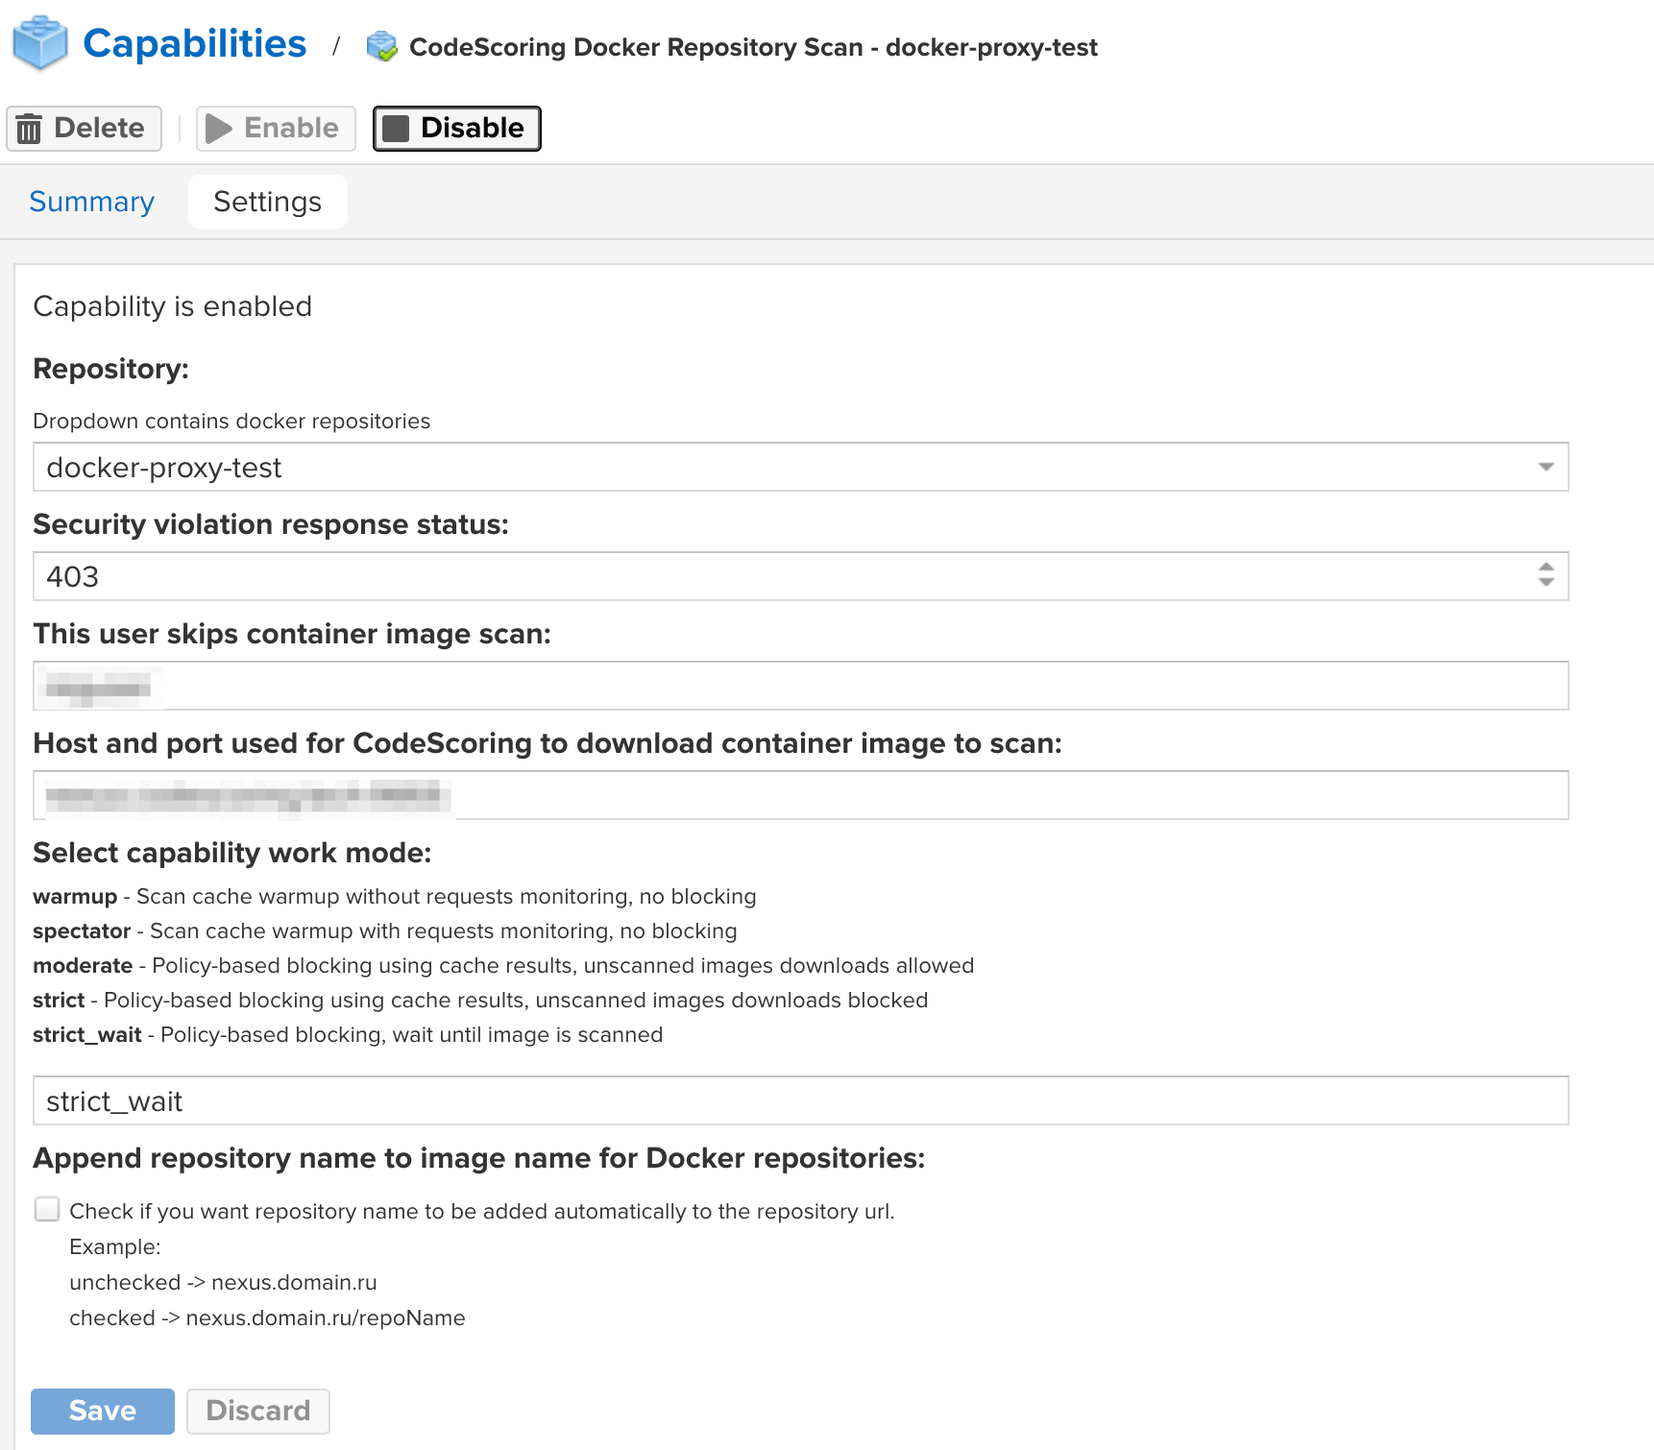
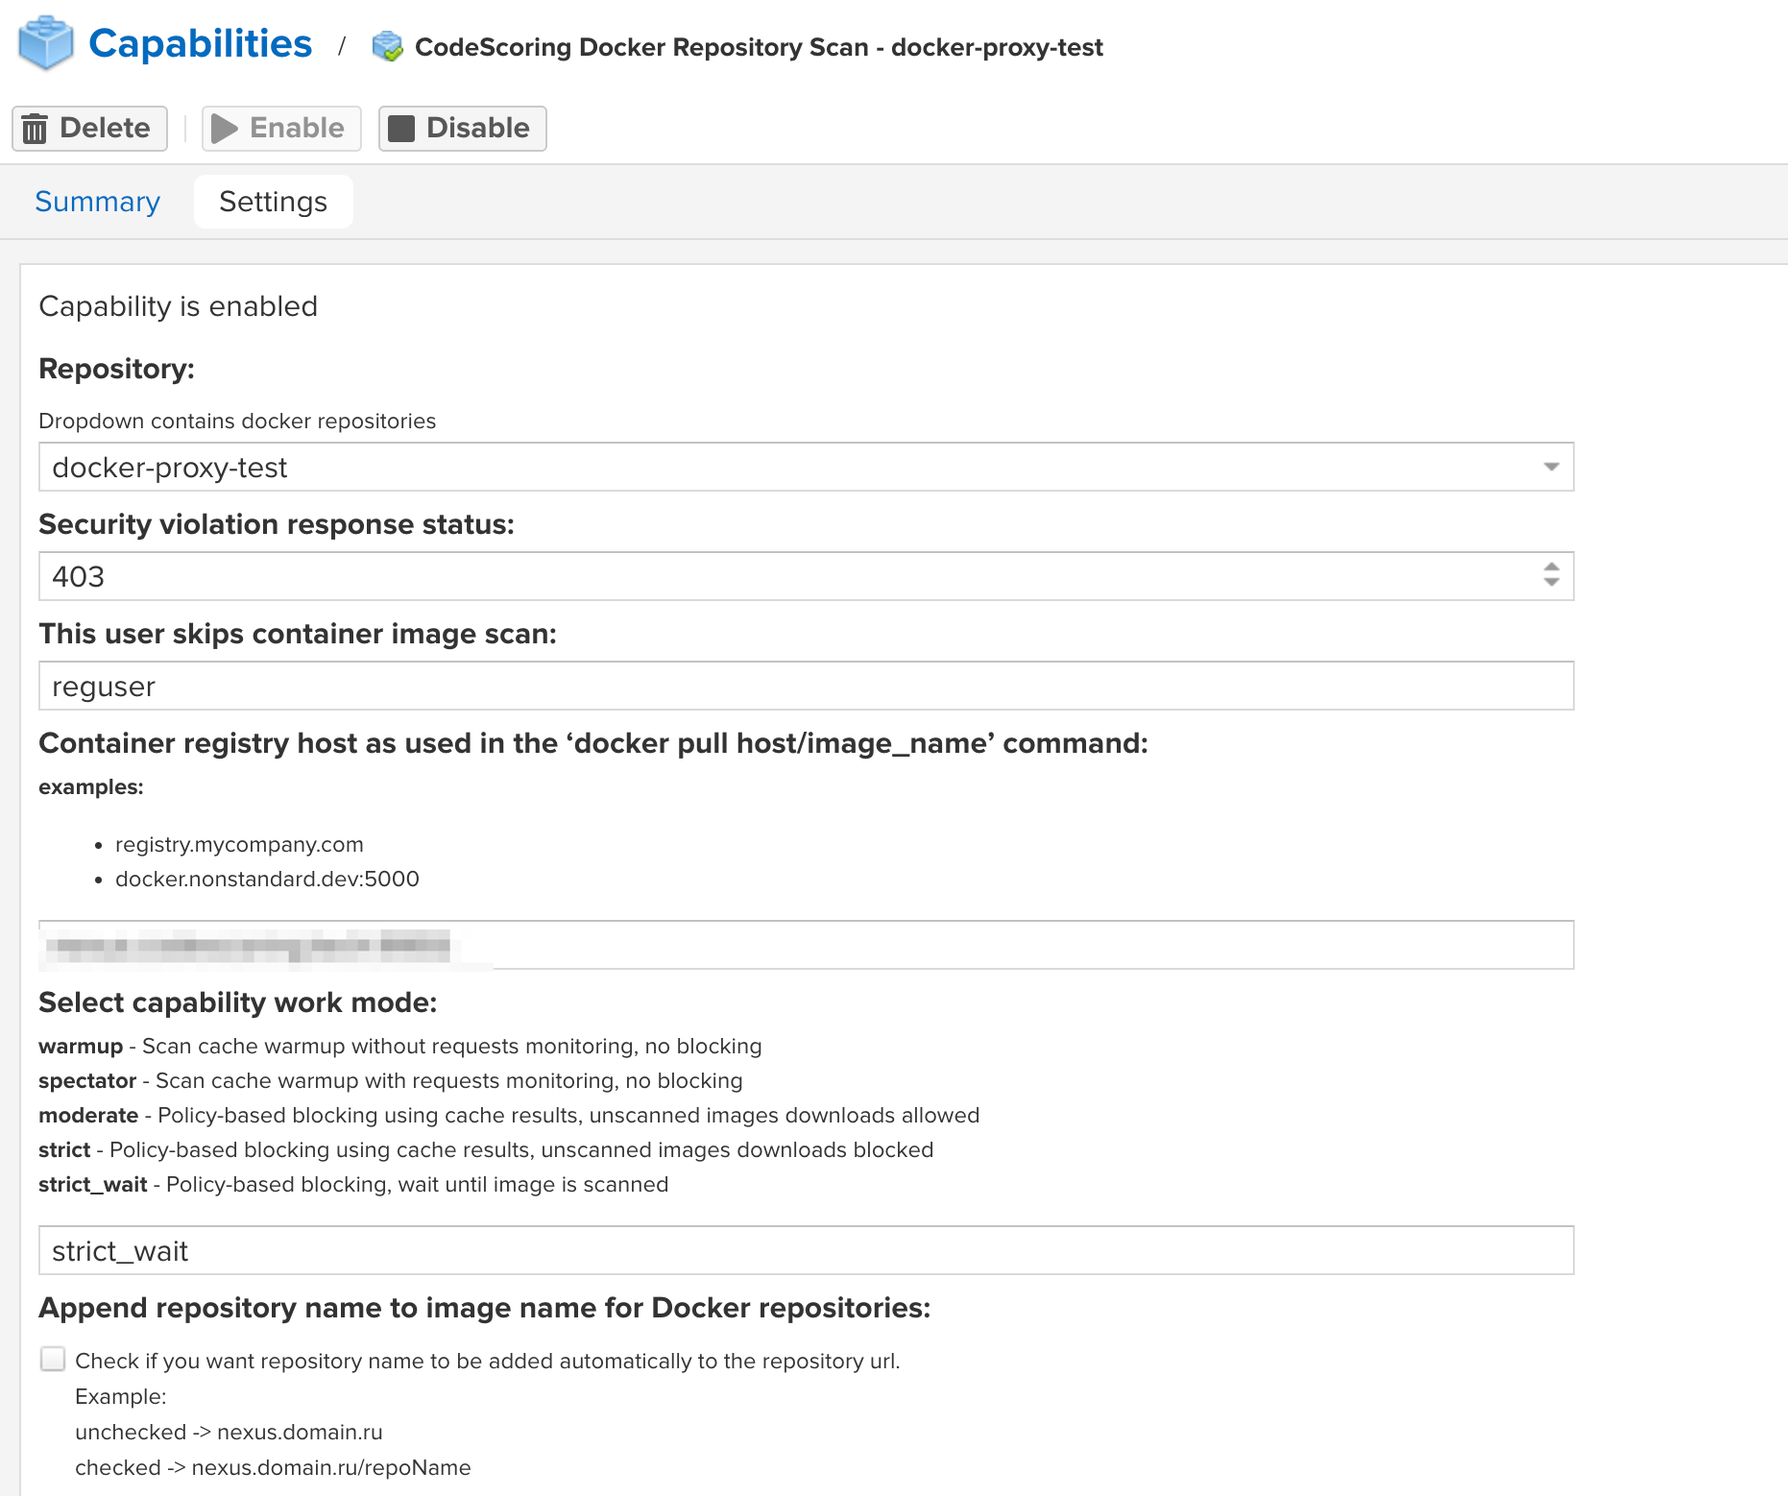
updated screenshots and fields of capabilities in Nexus OSA

diff --git a/docs/osa/nexus_osa.md b/docs/osa/nexus_osa.md
@@ -53,14 +53,13 @@ nx-repository-view-*-*-{read,browse}
 
 ### CodeScoring Configuration
 
-Расширение позволяет задать общие настройки плагина для работы с **on-premise** версией **CodeScoring**:
+Расширение позволяет задать общие настройки плагина для работы с инсталляцией **CodeScoring**:
 
-- **CodeScoring Token** – ключ для авторизации вызовов API (*Создается из CodeScoring раздела `Profile -> Home`*);
 - **CodeScoring URL** – адрес **on-premise** инсталляции **CodeScoring**;
+- **CodeScoring Token** – ключ для авторизации вызовов API (*Создается из CodeScoring раздела `Profile -> Home`*);
 - **HttpClient Connection Pool Size** – количество доступных соединений. Параметр позволяет управлять количеством параллельных запросов, чтобы ускорить сканирование;
 - **HTTP Proxy Host** – адрес прокси-сервера. Используется в случае, если нет возможности наладить прямое соединение между NXRM и CodeScoring;
 - **HTTP Proxy Port** – порт прокси-сервера;
-- **Store artifact analysis in the DB to retrieve them via REST** – сохранение результатов сканирования артефакта в базе NXRM с возможностью извлечения из Nexus API;
 - **Block downloads in case of plugin or CodeScoring errors** – блокировка загрузки компонента при наличии ошибок от плагина или CodeScoring API.
 - **Custom message for blocked packages** – сообщение для пользователя при блокировке компонентов;
 - **Nexus URL for identification in CodeScoring** – адрес Nexus Repository Manager с протоколом для отображения результатов на инсталляции.
@@ -87,8 +86,7 @@ nx-repository-view-*-*-{read,browse}
 - **Repository** – выбор репозитория, для которого будет применена функция экранирования;
 - **Security violation response status** – код ошибки, возвращаемый при срабатывании политик безопасности;
 - **This user skips container image scan** – имя пользователя, для которого не применяется сканирование образов. Используется при загрузке и проверке компонентов консольным агентом;
-- **Host and port used for CodeScoring to download container image to scan** – адрес (без указания протокола) и порт, через которые будут загружаться образы для сканирования. Используется для связи Nexus с репозиторием через Docker;
-- **Block not scanned images** – блокировка загрузки образов, которые не были просканированы;
+- **Container registry host as used in the `docker pull host/image_name` command** – адрес (без указания протокола) и порт, через которые будут загружаться образы для сканирования. Используется для связи Nexus с репозиторием через Docker;
 - **Select capability work mode** – режим работы плагина. Режимы работы описаны в секции ниже;
 - **Append repository name to image name for Docker repositories** – добавление названия репозитория в PURL для корректной работы в режиме **RepoPath** (в случае обращения за компонентом через команду `docker pull registry/repository/image_name`).
 
@@ -99,9 +97,10 @@ nx-repository-view-*-*-{read,browse}
 Расширение позволяет включить проверку компонентов на все репозитории в рамках Sonatype Nexus Repository Manager со следующими параметрами:
 
 - **List of comma separated repositories to ignore** – список репозиториев, которые не будут сканироваться;
+- **List of comma separated repository formats to scan** – список форматов репозиториев, которые будут сканироваться. Доступные форматы: `maven2`, `npm`, `pypi`, `nuget`, `cocoapods`, `go`, `rubygems`, `conan`, `apt`, `yum`, `apk`, `docker`;
 - **Security violation response status** – код ошибки, возвращаемый при срабатывании политик безопасности;
 - **This user skips container image scan** – имя пользователя, для которого не применяется сканирование образов. Используется при загрузке и проверке компонентов консольным агентом;
-- **Host and port used for CodeScoring to download container image to scan** – адрес (без указания протокола) и порт, через которые будут загружаться образы для сканирования. Используется для связи Nexus с репозиторием через Docker;
+- **Container registry host as used in the `docker pull host/image_name` command** – адрес (без указания протокола) и порт, через которые будут загружаться образы для сканирования. Используется для связи Nexus с репозиторием через Docker;
 - **Select capability work mode** – режим работы плагина. Режимы работы описаны в секции ниже;
 - **Append repository name to image name for Docker repositories** – добавление названия репозитория в PURL для корректной работы в режиме **RepoPath** (в случае обращения за компонентом через команду `docker pull registry/repository/image_name`).
 
@@ -126,46 +125,6 @@ nx-repository-view-*-*-{read,browse}
 ![NXRM logs](/assets/img/osa/nxrm_logs.png)
 
 Результаты логирования событий доступны в разделе `Support -> Logs`.
-
-### Сохранение и извлечение результатов сканирования артефакта
-
-При активации признака **Store artifact analysis in the DB to retrieve them via REST** в конфигурации плагина результаты сканирования артефактов будут сохраняться в базу данных Nexus. Это позволяет получить информацию о том, какие компоненты запрашивались пользователями и какой был статус загрузки данных компонентов.
-
-Извлечь результаты сканирования через Nexus REST API можно с помощью эндпоинта `v1/analysis` с тремя опциональными параметрами:
-
-- **userName** – имя пользователя в Nexus;
-- **date** – дата сканирования в формате ГГГГ-ММ-ДД;
-- **repositoryName** – название репозитория в Nexus.
-
-Пример запроса с помощью `curl`:
-
-``` bash
-curl -X GET https://test.nexus.com/service/rest/v1/analysis?userName=example_user&date=2023-10-19&repositoryName=example_repository
-```
-
-Пример ответа с результатом сканирования:
-``` bash
-[
- {
-    "userName": "bobbi",
-    "artifactName": "specs",
-    "artifactVersion": "4.8",
-    "repositoryName": "gems",
-    "downloadState": "LOADED",
-    "scanDate": "2023-08-12",
-    "scanTime": "10:17:59"
- },
- {
-    "userName": "bobbi",
-    "artifactName": "kmod",
-    "artifactVersion": "27-1ubuntu2",
-    "repositoryName": "ubuntu",
-    "downloadState": "LOADED",
-    "scanDate": "2023-08-12",
-    "scanTime": "11:52:53"
-  },
-]
-```
 
 ## Блокировка компонента
 

diff --git a/docs/osa/nexus_osa.en.md b/docs/osa/nexus_osa.en.md
@@ -53,14 +53,13 @@ After installing the **CodeScoring OSA** plugin in the `System -> Capabilities` 
 
 ### CodeScoring Configuration
 
-This extension allows you to set general plugin settings for working with the **on-premise** version of **CodeScoring**:
+This extension allows you to set general plugin settings for working with the **CodeScoring** installation:
 
-- **CodeScoring Token** – key for authorizing API calls (*Created from CodeScoring section `Profile -> Home`*);
 - **CodeScoring URL** – address of the on-premise installation of **CodeScoring**;
+- **CodeScoring Token** – key for authorizing API calls (*Created from CodeScoring section `Profile -> Home`*);
 - **HttpClient Connection Pool Size** – number of available connections. This parameter allows you to control the number of parallel requests to speed up scanning;
 - **HTTP Proxy Host** – proxy server address. Used if it is not possible to establish a direct connection between NXRM and CodeScoring;
 - **HTTP Proxy Port** – proxy server port;
-- **Store artifact analysis in the DB to retrieve them via REST** – saving the artifact scan results in the NXRM database with the ability to retrieve them from the Nexus API;
 - **Block downloads in case of plugin or CodeScoring errors** – blocking the download of a component if there are errors from the plugin or CodeScoring API.
 - **Custom message for blocked packages** – message for the user when components are blocked;
 - **Nexus URL for identification in CodeScoring** – address of the Nexus Repository Manager with the protocol for displaying the results on the installation.
@@ -87,8 +86,7 @@ This extension allows you to enable component check for the selected hosted or p
 - **Repository** – select the repository for which the escaping function will be applied;
 - **Security violation response status** – error code returned when security policies are triggered;
 - **This user skips container image scan** – user for which image scanning is not applied. Used when loading and checking components by the console agent;
-- **Host and port used for CodeScoring to download container image to scan** – address (without specifying the protocol) and port through which images for scanning will be downloaded. Used to communicate between Nexus and repository via Docker;
-- **Block not scanned images** – block the downloading of images that have not been scanned;
+- **Container registry host as used in the `docker pull host/image_name` command** – address (without specifying the protocol) and port through which images for scanning will be downloaded. Used to communicate between Nexus and repository via Docker;
 - **Select capability work mode** – plugin operating mode. The operating modes are described in the section below;
 - **Append repository name to image name for Docker repositories** – adding the repository name to PURL for correct operation in **RepoPath** mode (in case of accessing the component via the `docker pull registry/repository/image_name` command).
 
@@ -99,9 +97,10 @@ This extension allows you to enable component check for the selected hosted or p
 The extension allows you to enable component checking for all repositories within the Sonatype Nexus Repository Manager with the following parameters:
 
 - **List of comma separated repositories to ignore** – list of repositories that will not be scanned;
+- **List of comma separated repository formats to scan** – list of repository formats to scan. Available formats: `maven2`, `npm`, `pypi`, `nuget`, `cocoapods`, `go`, `rubygems`, `conan`, `apt`, `yum`, `apk`, `docker`;
 - **Security violation response status** – error code returned when security policies are triggered;
 - **This user skips container image scan** – user for which image scanning is not applied. Used when downloading and checking components by the console agent;
-- **Host and port used for CodeScoring to download container image to scan** – address (without specifying the protocol) and port through which images for scanning will be downloaded. Used to communicate between Nexus and repository via Docker;
+- **Container registry host as used in the `docker pull host/image_name` command** – address (without specifying the protocol) and port through which images for scanning will be downloaded. Used to communicate between Nexus and repository via Docker;
 - **Select capability work mode** – plugin operating mode. The operating modes are described in the section below;
 - **Append repository name to image name for Docker repositories** – adding the repository name to PURL for correct operation in **RepoPath** mode (in case of accessing the component via the `docker pull registry/repository/image_name` command).
 
@@ -126,46 +125,6 @@ To configure logging of plugin events, you need to go to the `Support -> Logging
 ![NXRM logs](/assets/img/osa/nxrm_logs.png)
 
 Event logging results are available in the `Support -> Logs` section.
-
-### Saving and retrieving artifact scan results
-
-When the **Store artifact analysis in the DB to retrieve them via REST** flag is activated in the plugin configuration, the results of scanning artifacts will be saved to the Nexus database. This allows you to obtain information about which components were requested by users and what the download status of these components was.
-
-You can retrieve scan results via the Nexus REST API using the `v1/analysis` endpoint with three optional parameters:
-
-- **userName** – user name in Nexus;
-- **date** – scan date in YYYY-MM-DD format;
-- **repositoryName** – name of the repository in Nexus.
-
-Example request using `curl`:
-
-```bash
-curl -X GET https://test.nexus.com/service/rest/v1/analysis?userName=example_user&date=2023-10-19&repositoryName=example_repository
-```
-
-Example response with scan result:
-```bash
-[
- {
- "userName": "bobby",
- "artifactName": "specs",
- "artifactVersion": "4.8",
- "repositoryName": "gems",
- "downloadState": "LOADED",
- "scanDate": "2023-08-12",
- "scanTime": "10:17:59"
- },
- {
- "userName": "bobby",
- "artifactName": "kmod",
- "artifactVersion": "27-1ubuntu2",
- "repositoryName": "ubuntu",
- "downloadState": "LOADED",
- "scanDate": "2023-08-12",
- "scanTime": "11:52:53"
- },
-]
-```
 
 ## Blocking components
 

diff --git a/docs/osa/components.md b/docs/osa/components.md
@@ -2,6 +2,7 @@
 hide:
   - footer
 ---
+
 # Работа с компонентами OSA на инсталляции
 
 Компоненты, которые прошли проверку плагином, отображаются в разделе `OSA` интерфейса CodeScoring.
